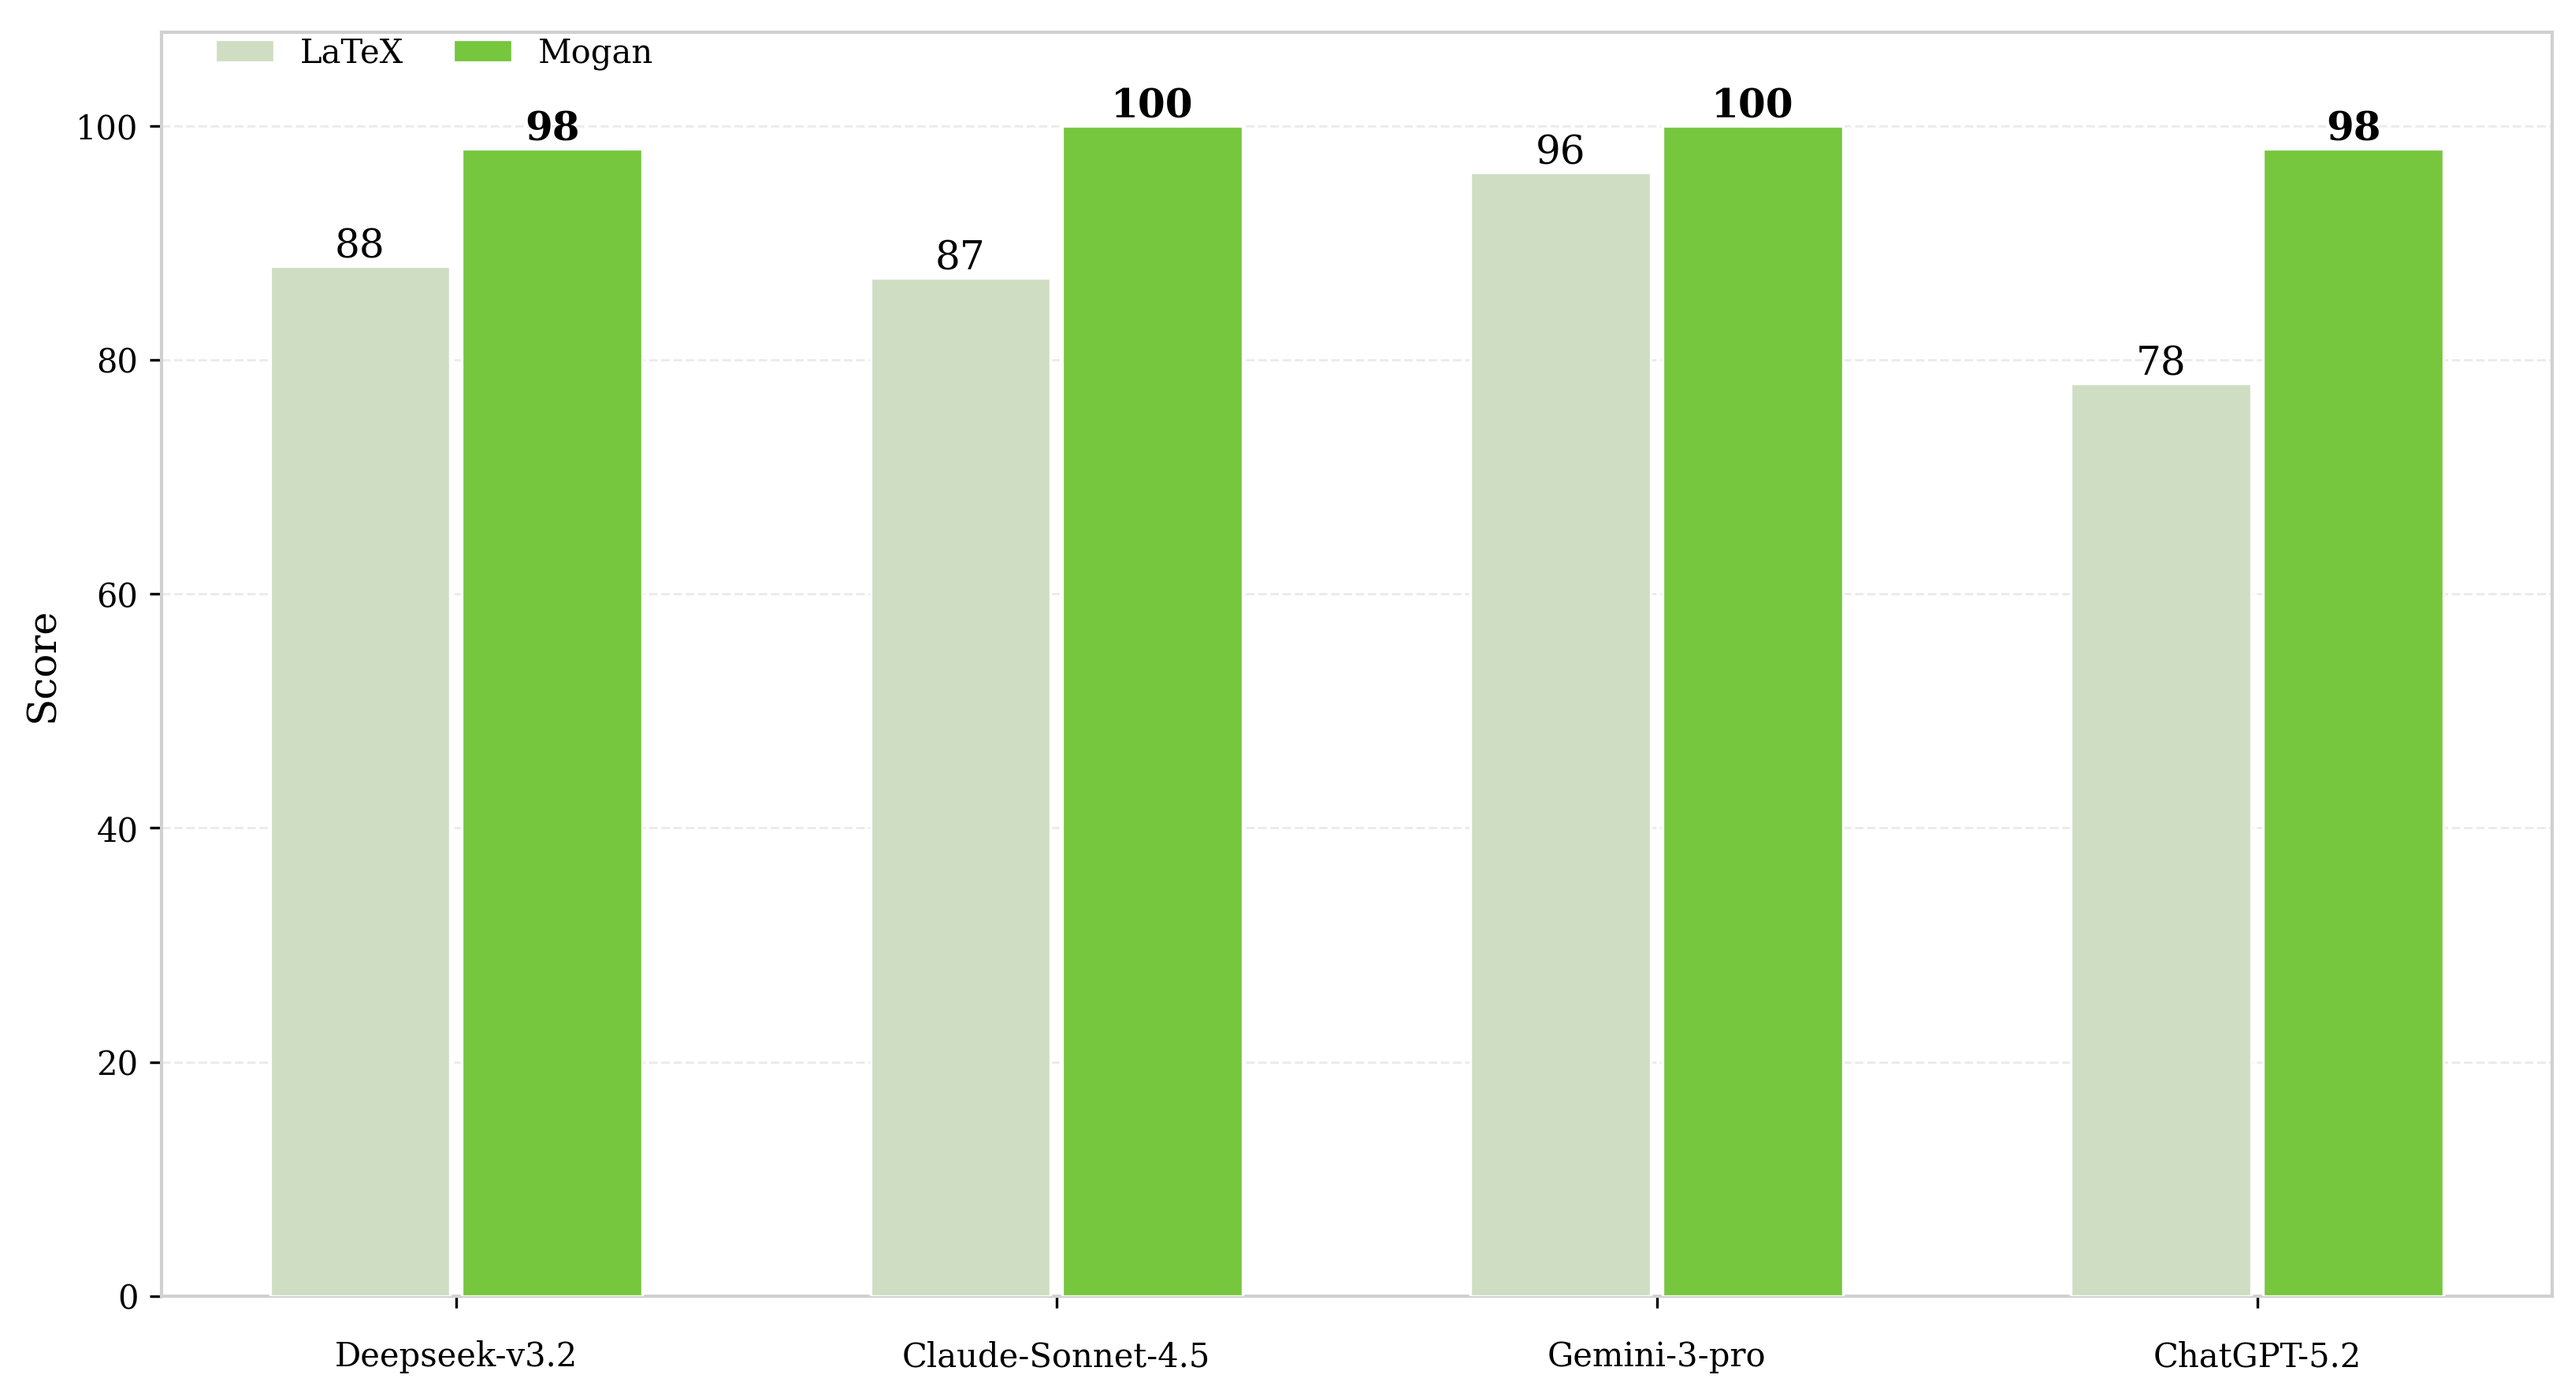
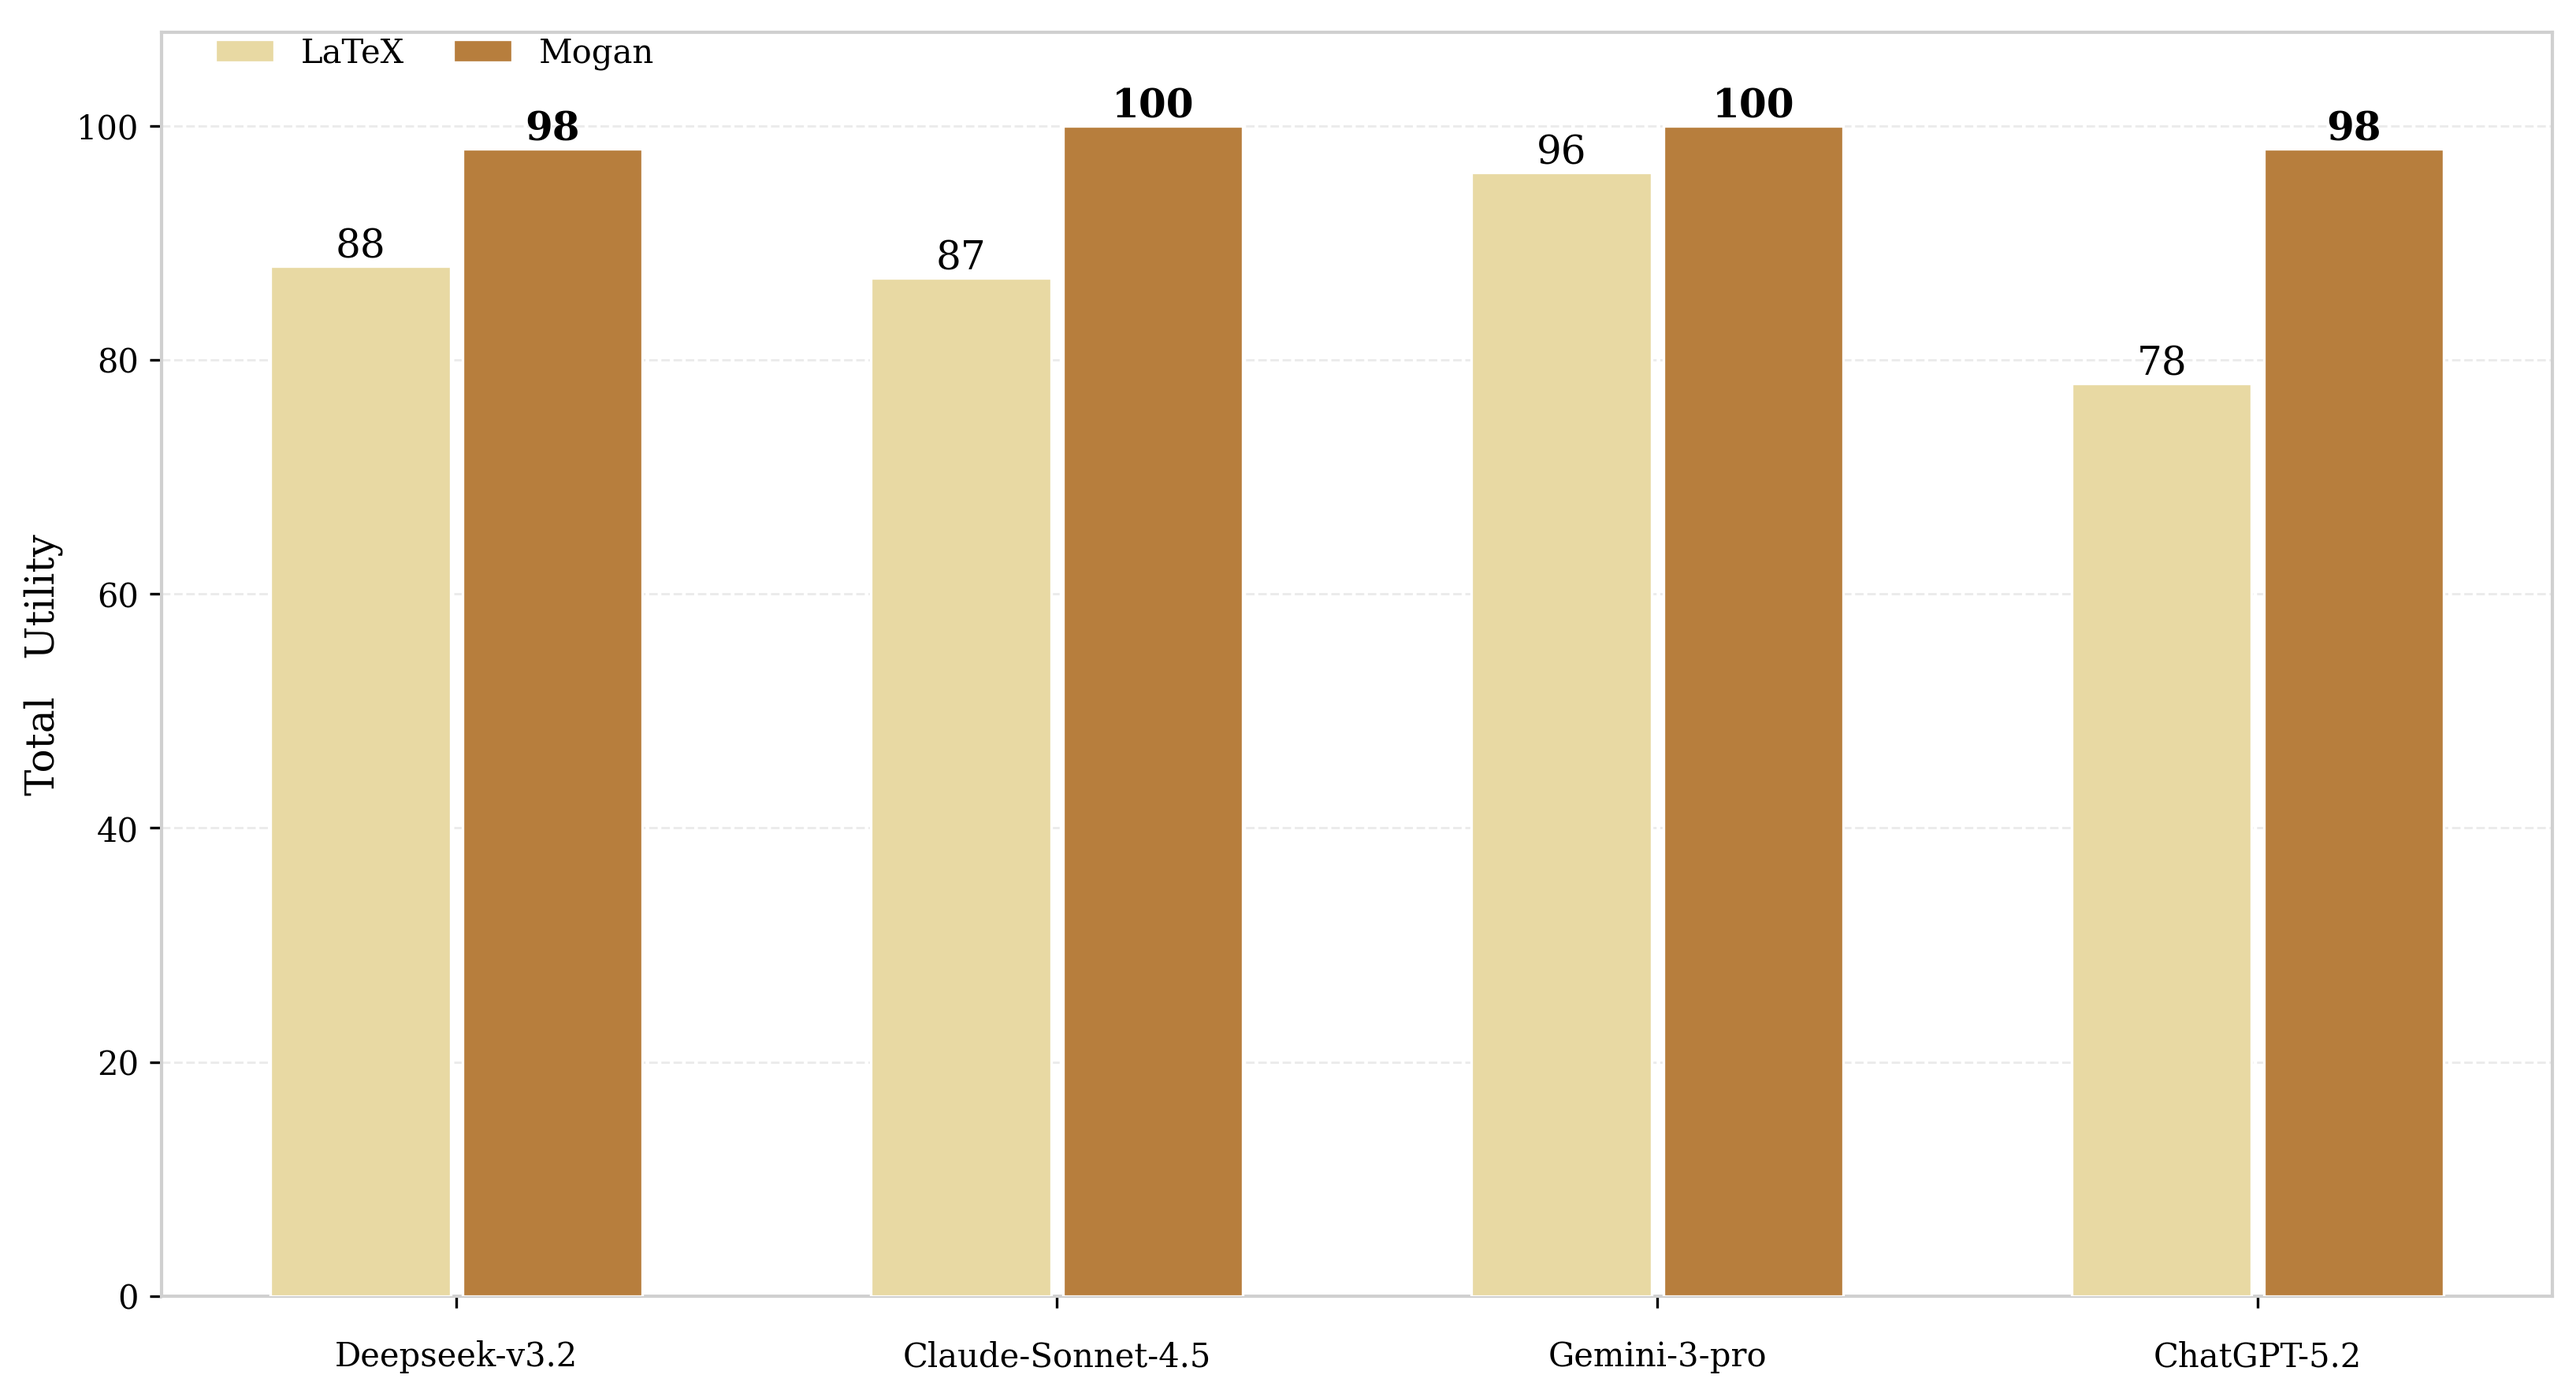
wip

diff --git a/draw_bench2.py b/draw_bench2.py
@@ -11,13 +11,17 @@ benchmarks = [
 
 series_names = ["LaTeX", "Mogan"]
 highlight_names = {"Mogan"}
-series_colors = {"LaTeX": "#CFDDC3", "Mogan": "#76C63E"}
+series_colors = {
+    "reading": {"LaTeX": "#aeb5d9", "Mogan": "#293890"},
+    "writing": {"LaTeX": "#d7acb1", "Mogan": "#bf1d2d"},
+    "debugging": {"LaTeX": "#E8D9A3", "Mogan": "#B77E3D"},
+}
 
 # Only varying configs
 charts = [
     {"name": "writing", "data_path": "writing.txt", "ylabel": "Total   Utility", "ylim": (0, 105)},
-    {"name": "reading", "data_path": "reading.txt", "ylabel": "Score", "ylim": (0, 100)},
-    {"name": "debugging", "data_path": "debugging.txt", "ylabel": "Score", "ylim": (0, 108)},
+    {"name": "reading", "data_path": "reading.txt", "ylabel": "Total   Utilitye", "ylim": (0, 100)},
+    {"name": "debugging", "data_path": "debugging.txt", "ylabel": "Total   Utility", "ylim": (0, 108)},
 ]
 
 plt.rcParams.update({
@@ -32,6 +36,8 @@ bar_w = 0.30
 offsets = (np.arange(len(series_names)) - (len(series_names) - 1) / 2) * (bar_w + 0.02)
 
 for cfg in charts:
+    chart_colors = series_colors[cfg["name"]]
+
     with open(cfg["data_path"], "r", encoding="utf-8") as f:
         rows = [
             list(map(float, re.split(r"[,\s]+", line.strip())))
@@ -61,7 +67,7 @@ for cfg in charts:
             vals,
             width=bar_w,
             label=name,
-            color=series_colors[name],
+            color=chart_colors[name],
             edgecolor="white",
             linewidth=0.8,
             zorder=3,
